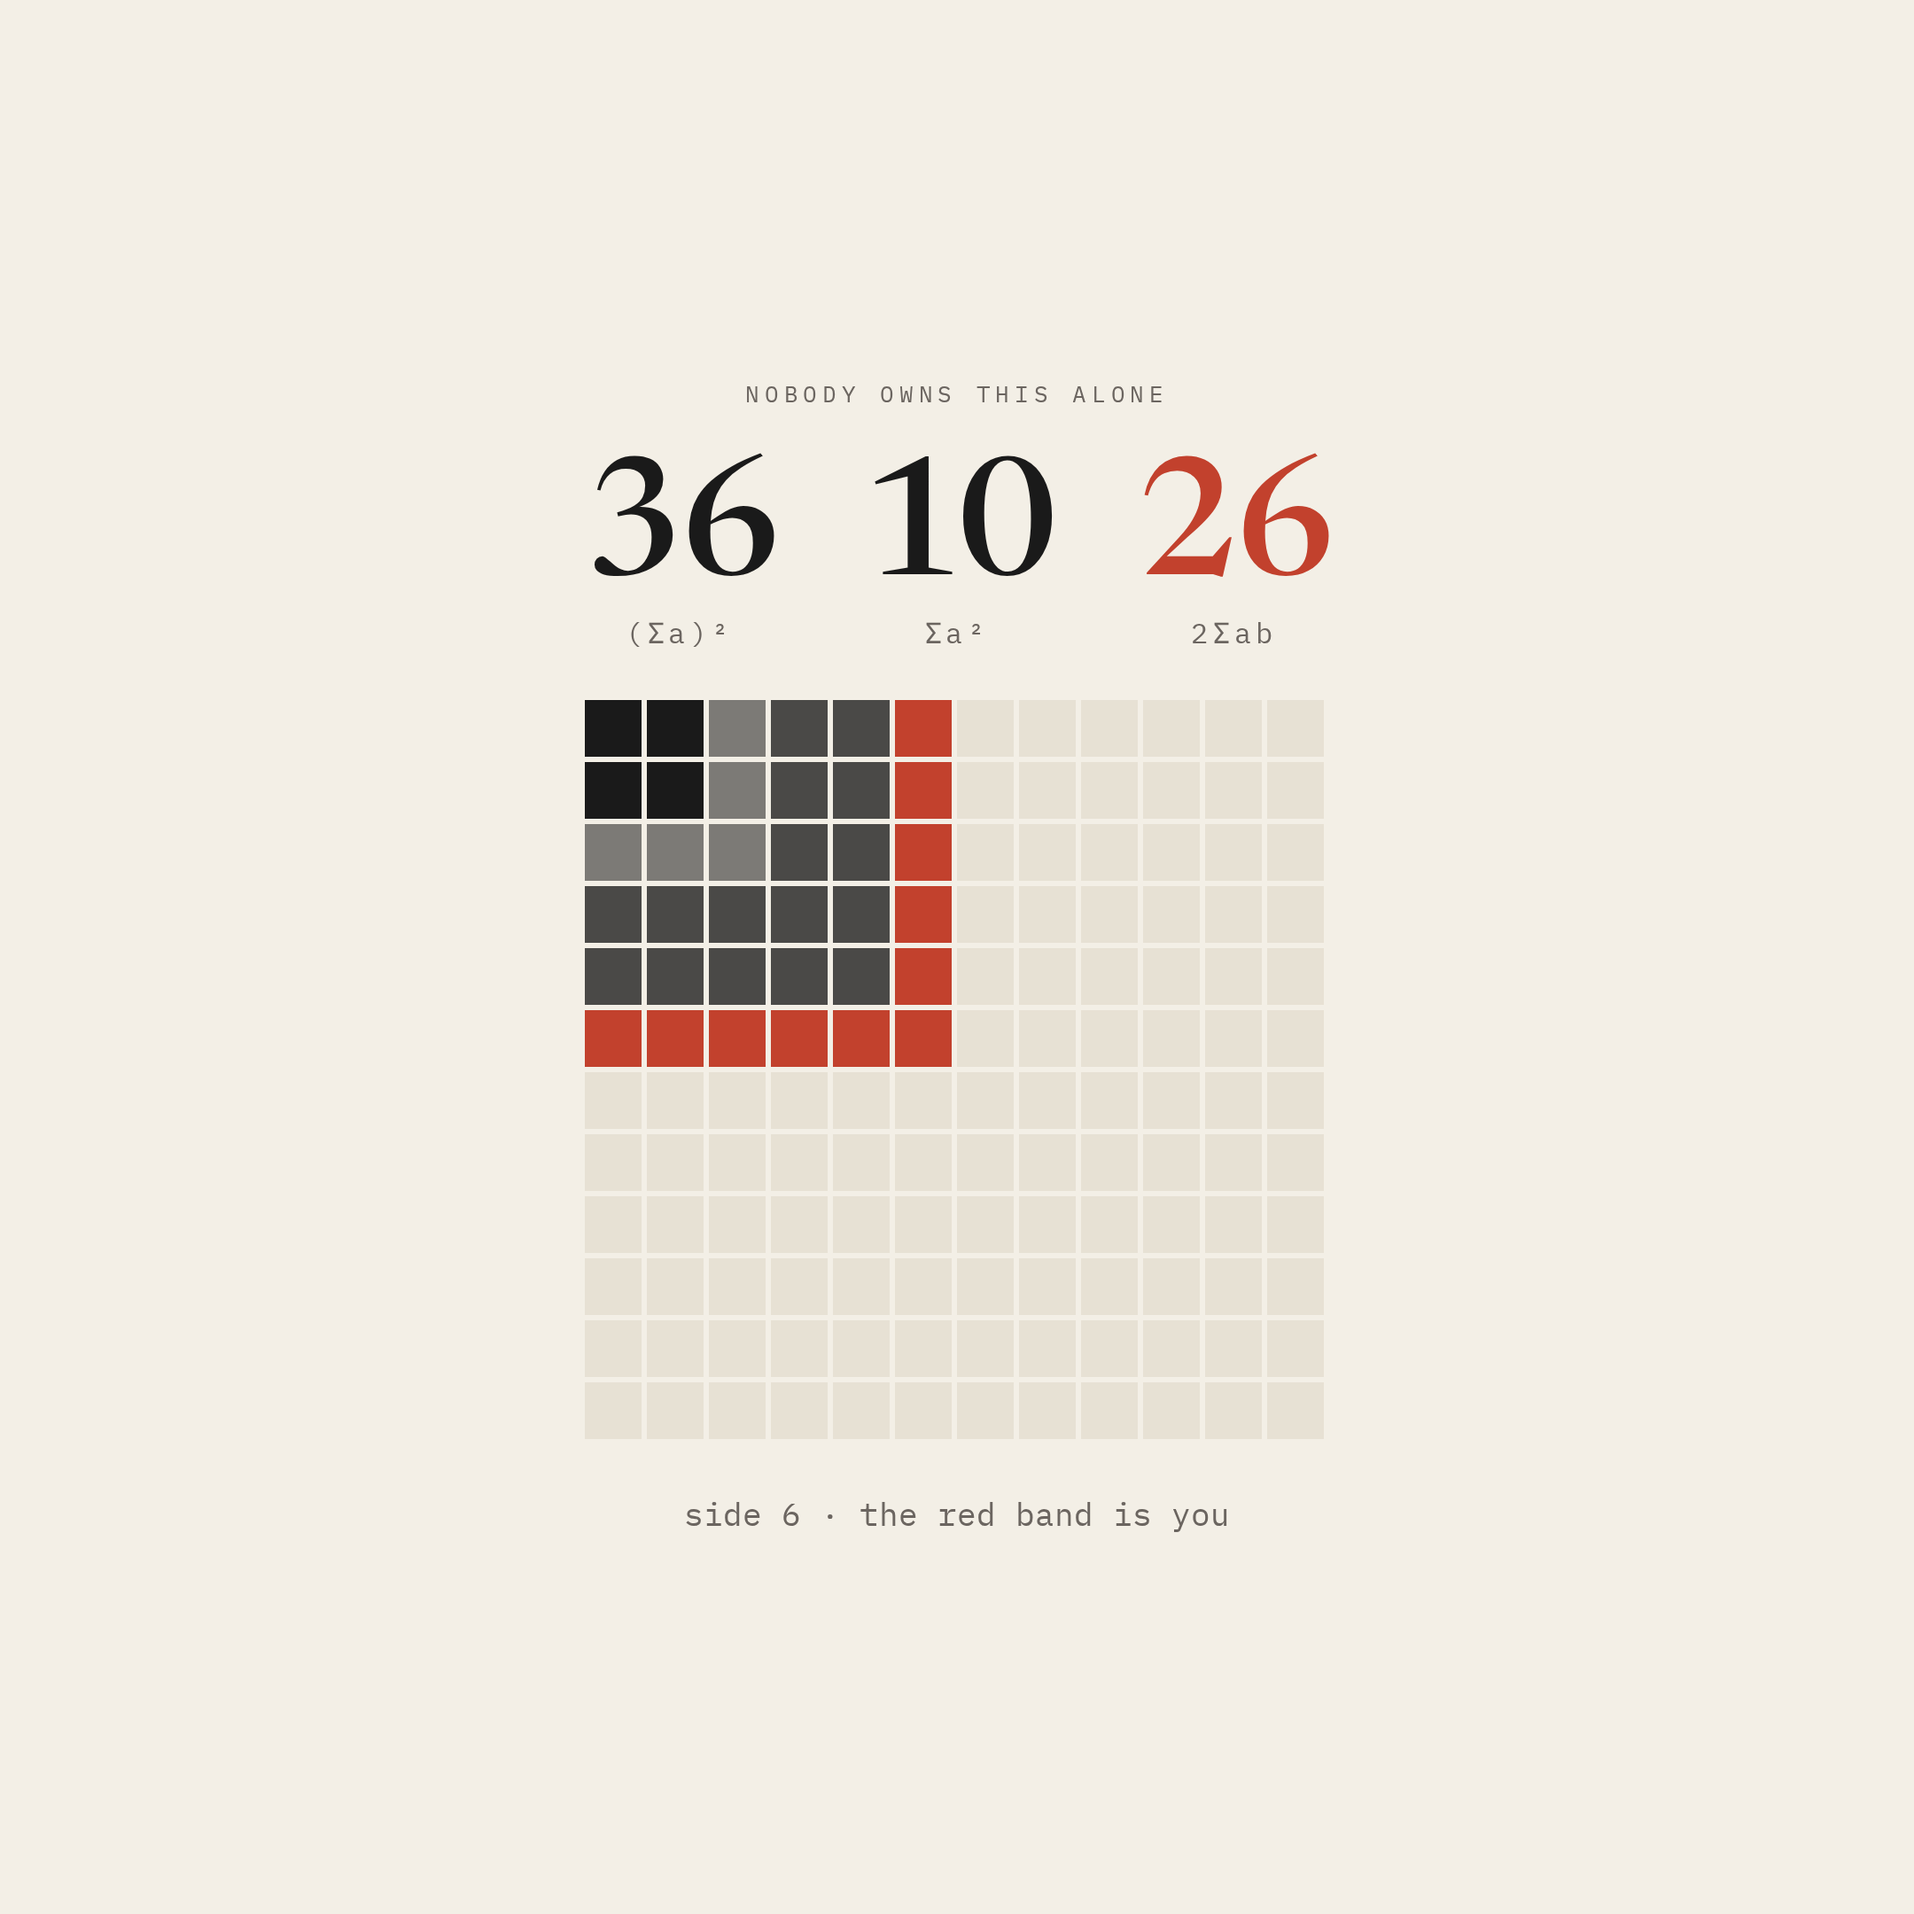
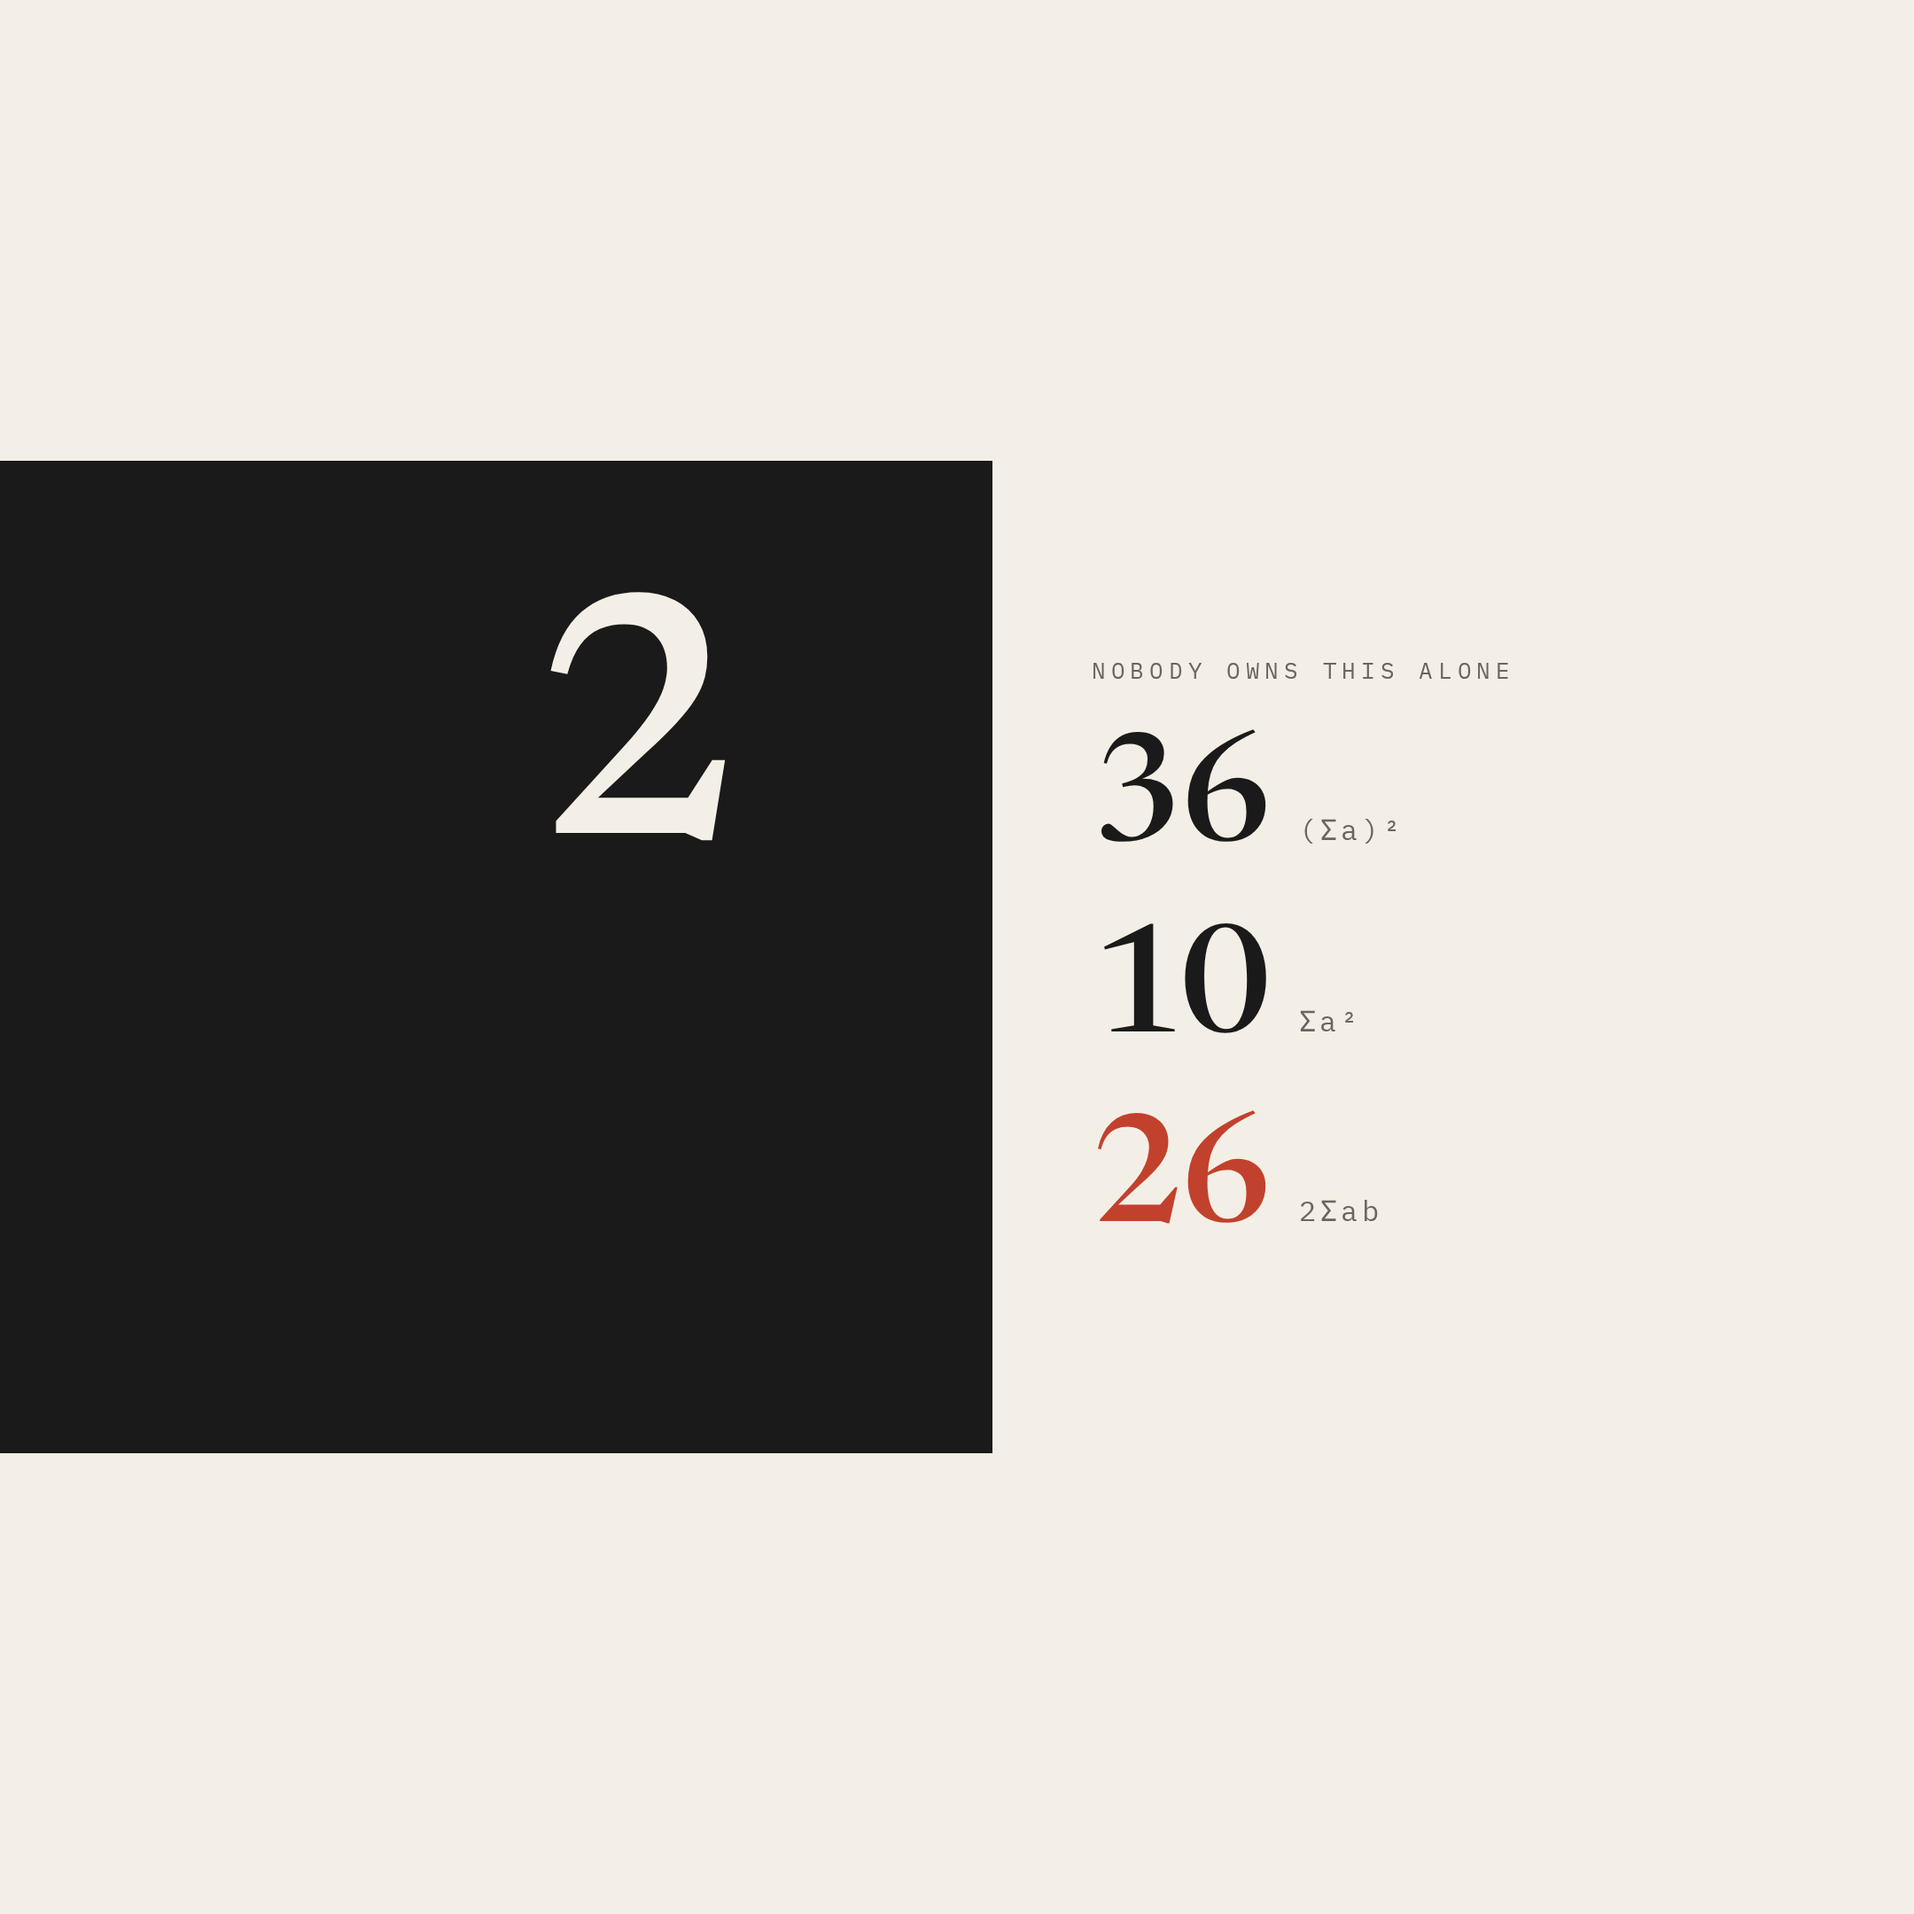
X posts and cover use the black square

diff --git a/public/brand/COPY.md b/public/brand/COPY.md
@@ -45,7 +45,6 @@ $POWER pairs with ANTHROPICx1L on Robinhood Chain. The site is https://sqpower.x
 (Σa)² is not Σa².
 
 Add the squares and you miss the pool.
-The red gnomon is the seat you just took.
 
 $POWER · ANTHROPIC²
 LONG × ANTHROPICx1L
